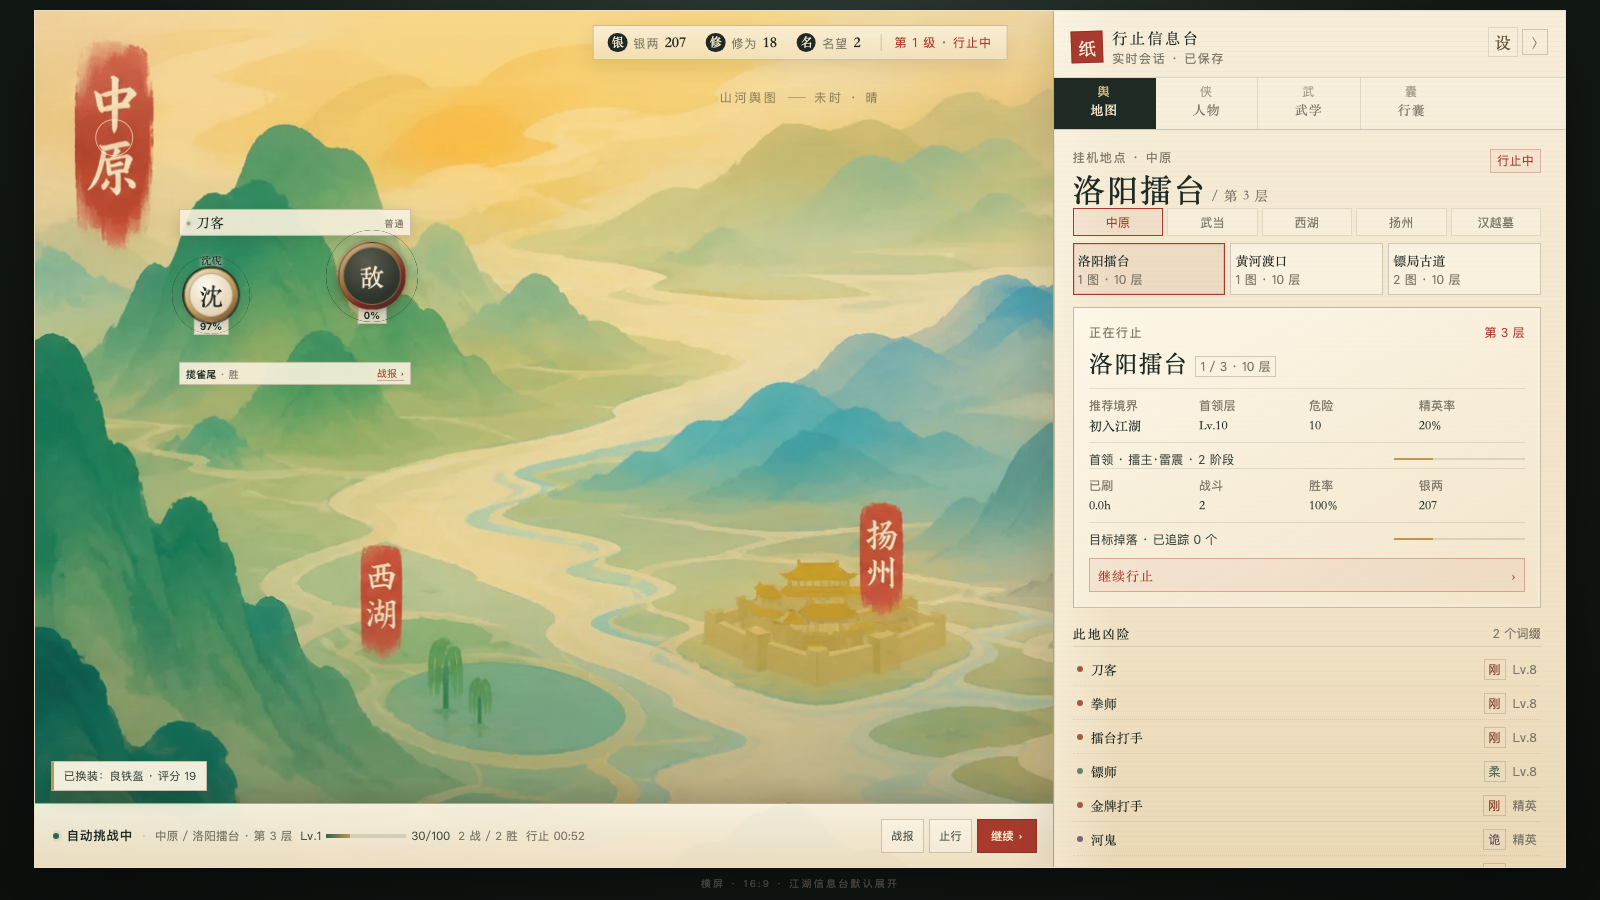
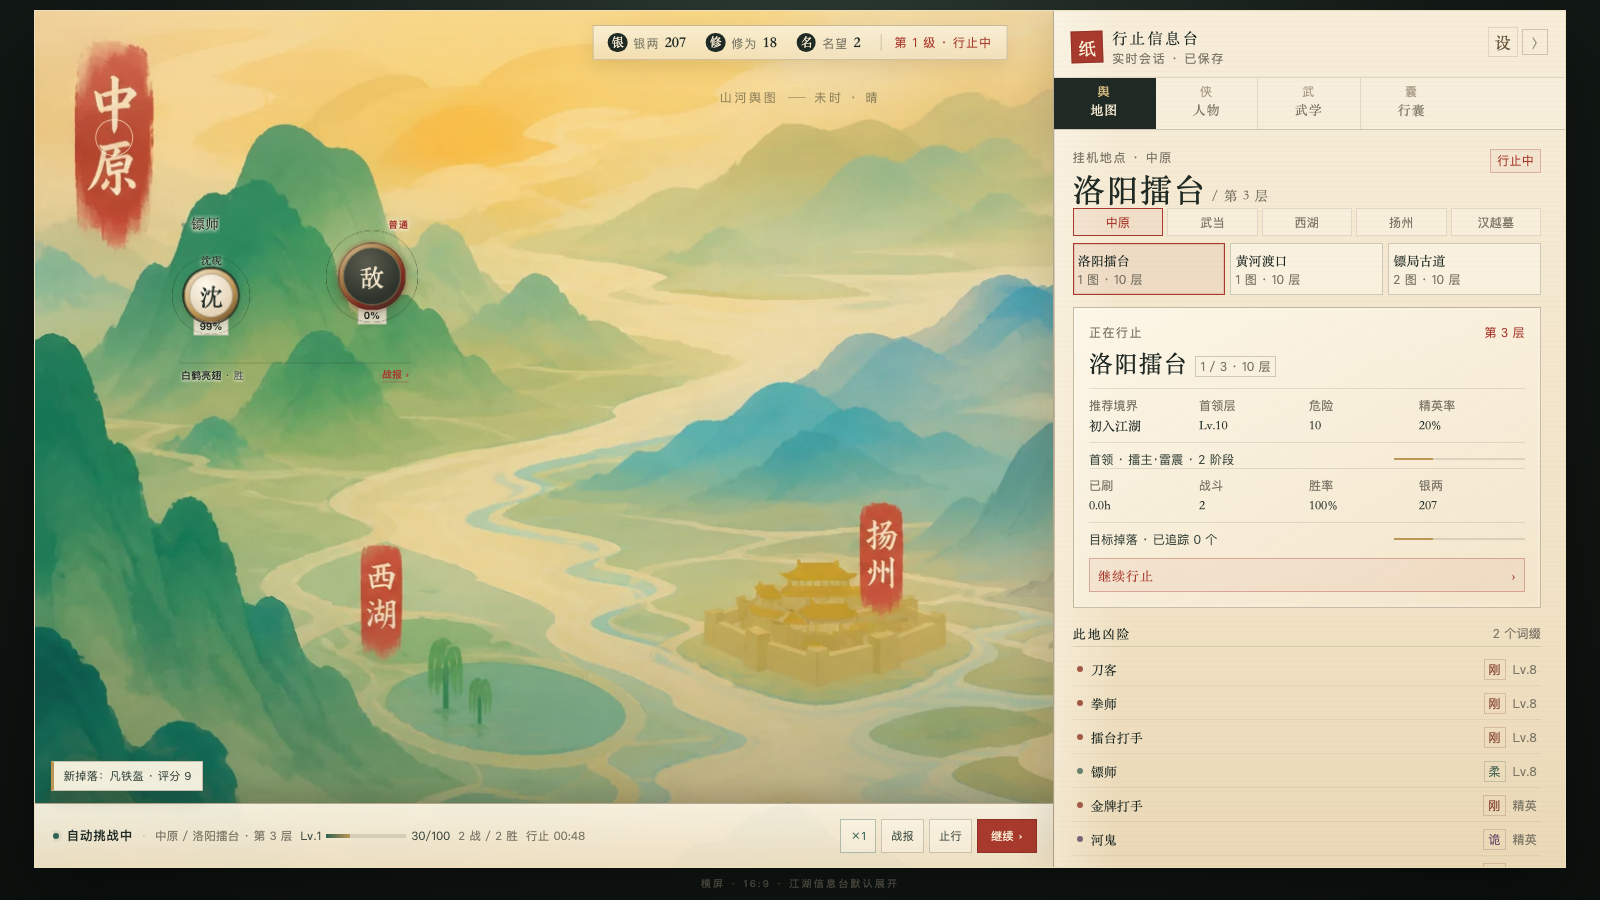
feat(idle): add battle speed control

diff --git a/src/core/session.ts b/src/core/session.ts
@@ -61,12 +61,14 @@ import { CONTENT_VERSION, SAVE_SCHEMA_VERSION } from "../data/content-version.ts
 // ---------------------------------------------------------------------------
 
 export type ActivityMode = "clear" | "survive" | "escort";
+export type BattleSpeed = 1 | 2 | 4;
 
 export type JianghuCommand =
   | { type: "newGame"; buildId: BuildId; seed: number; name?: string; mapId?: string; skipTutorial?: boolean }
   | { type: "tutorialStep"; step: string }
   | { type: "skipTutorial" }
   | { type: "learnArt"; artId: string }
+  | { type: "setSpeed"; speed: BattleSpeed }
   | { type: "equipArt"; slot: string; artId: string }
   | { type: "equipItem"; itemId: string }
   | { type: "travel"; mapId: string }
@@ -95,6 +97,7 @@ export interface SessionSnapshotV1 {
   mapId: string;
   mapName: string;
   mapLayer: number;
+  speed: BattleSpeed;
   mode: ActivityMode;
   active: boolean;
   elapsedHours: number;
@@ -181,6 +184,7 @@ export interface JianghuSessionStateV1 {
   xp: number;
   mapId: string;
   layer: number;
+  speed?: BattleSpeed;
   mode: ActivityMode;
   active: boolean;
   world: WorldProgressV1;
@@ -229,8 +233,8 @@ function rewardsFor(
   };
 }
 
-function fightSeconds(rounds: number, boss: boolean): number {
-  return FIGHT_BASE_SECONDS + rounds * FIGHT_ROUND_SECONDS + (boss ? BOSS_EXTRA_SECONDS : 0);
+function fightSeconds(rounds: number, boss: boolean, speed: BattleSpeed = 1): number {
+  return (FIGHT_BASE_SECONDS + rounds * FIGHT_ROUND_SECONDS + (boss ? BOSS_EXTRA_SECONDS : 0)) / speed;
 }
 
 export class JianghuSession {
@@ -244,6 +248,7 @@ export class JianghuSession {
 
   private constructor(state: JianghuSessionStateV1) {
     this.state = state;
+    this.state.speed = state.speed === 2 || state.speed === 4 ? state.speed : 1;
   }
 
   static newGame(
@@ -282,6 +287,7 @@ export class JianghuSession {
       xp: 0,
       mapId: startingMap,
       layer: 1,
+      speed: 1,
       mode: "clear",
       active: true,
       world: createWorldProgress(WORLD_CONTENT_V1, startingMap),
@@ -374,6 +380,7 @@ export class JianghuSession {
       mapId: s.mapId,
       mapName: map.name,
       mapLayer: s.layer,
+      speed: s.speed ?? 1,
       mode: s.mode,
       active: s.active,
       elapsedHours: s.timeSeconds / 3600,
@@ -498,6 +505,12 @@ export class JianghuSession {
         }
         break;
       }
+      case "setSpeed": {
+        this.state.speed = command.speed === 2 || command.speed === 4 ? command.speed : 1;
+        this.state.notice = `战斗速度 ×${this.state.speed}`;
+        this.state.log.push(this.state.notice);
+        break;
+      }
       case "travel": {
         const map = WORLD_CONTENT_V1.maps.find((entry) => entry.id === command.mapId);
         if (!map) throw new Error(`未知地图：${command.mapId}`);
@@ -566,7 +579,7 @@ export class JianghuSession {
     let stoppedBy: string | null = null;
     const maxFights = 2000;
     let guard = 0;
-    while (remaining >= FIGHT_BASE_SECONDS && s.active && guard < maxFights) {
+    while (remaining >= FIGHT_BASE_SECONDS / (s.speed ?? 1) && s.active && guard < maxFights) {
       guard += 1;
       if (this.pendingTrial()) {
         const seconds = this.attemptTrial();
@@ -700,7 +713,7 @@ export class JianghuSession {
       captureEvents: false,
     });
     s.counter += 1;
-    const seconds = fightSeconds(battle.rounds, true);
+    const seconds = fightSeconds(battle.rounds, true, s.speed ?? 1);
     if (battle.win) {
       s.level += 1;
       s.xp = 0;
@@ -745,7 +758,7 @@ export class JianghuSession {
       modifiers: encounterBattleModifiers(encounter),
       captureEvents: false,
     });
-    const seconds = fightSeconds(battle.rounds, encounter.kind === "boss");
+    const seconds = fightSeconds(battle.rounds, encounter.kind === "boss", s.speed ?? 1);
     s.lastBattle = {
       enemyName: battle.enemyName,
       outcome: battle.outcome,
@@ -844,7 +857,7 @@ export class JianghuSession {
       seed: spec.enemySeed,
       captureEvents: false,
     });
-    const seconds = fightSeconds(battle.rounds, false);
+    const seconds = fightSeconds(battle.rounds, false, s.speed ?? 1);
     s.lastBattle = {
       enemyName: battle.enemyName,
       outcome: battle.outcome,

diff --git a/src/ui/styles.css b/src/ui/styles.css
@@ -1417,3 +1417,25 @@ html[data-reduced-motion="true"] *, html[data-reduced-motion="true"] *::before, 
   box-shadow: 0 0 0 1px rgba(32, 25, 19, .75);
 }
 .orb-hp-ring::after { inset: -1px; border-color: rgba(32, 25, 19, .85); }
+/* lighter battle labels: no paper plaques, just ink over the map */
+.cluster-title,
+.cluster-bottom {
+  background: transparent;
+  border: 0;
+  box-shadow: none;
+}
+.cluster-title {
+  padding: 2px 2px 3px;
+  text-shadow: 0 1px 3px rgba(250, 241, 221, .96), 0 0 9px rgba(250, 241, 221, .78);
+}
+.cluster-title span { color: var(--ink); }
+.cluster-title small { color: var(--vermilion); font-weight: 600; letter-spacing: .08em; }
+.cluster-bottom {
+  padding: 4px 2px 0;
+  border-top: 1px solid rgba(55, 46, 33, .22);
+  color: var(--ink-soft);
+  text-shadow: 0 1px 3px rgba(250, 241, 221, .92);
+}
+.cluster-bottom b { color: var(--ink); }
+.cluster-bottom button { font-weight: 600; text-shadow: none; }
+.status-actions .status-speed { min-width: 34px; color: var(--jade); border-color: rgba(47, 98, 82, .35); font-variant-numeric: tabular-nums; }

diff --git a/src/ui/App.tsx b/src/ui/App.tsx
@@ -245,6 +245,11 @@ function App() {
               <span className="status-time">行止 {elapsedLabel(snapshot.elapsedHours)}</span>
             </div>
             <div className="status-actions">
+              <button
+                className="status-speed"
+                title="战斗速度（1× / 2× / 4×）"
+                onClick={() => dispatch({ type: "setSpeed", speed: snapshot.speed === 1 ? 2 : snapshot.speed === 2 ? 4 : 1 })}
+              >×{snapshot.speed}</button>
               <button onClick={() => setBattleLogOpen(true)} disabled={!snapshot.lastBattle}>战报</button>
               <button onClick={() => dispatch({ type: snapshot.active ? "stop" : "resume" })}>{snapshot.active ? "止行" : "续行"}</button>
               <button className="status-primary" onClick={travel}>
